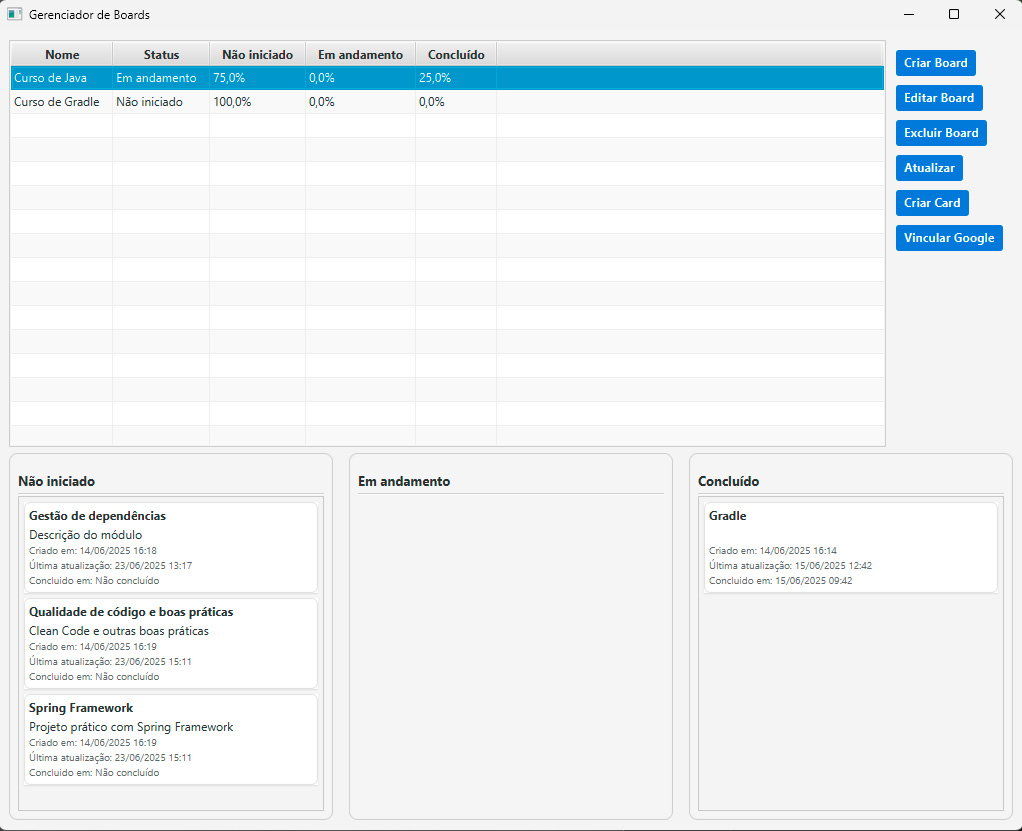
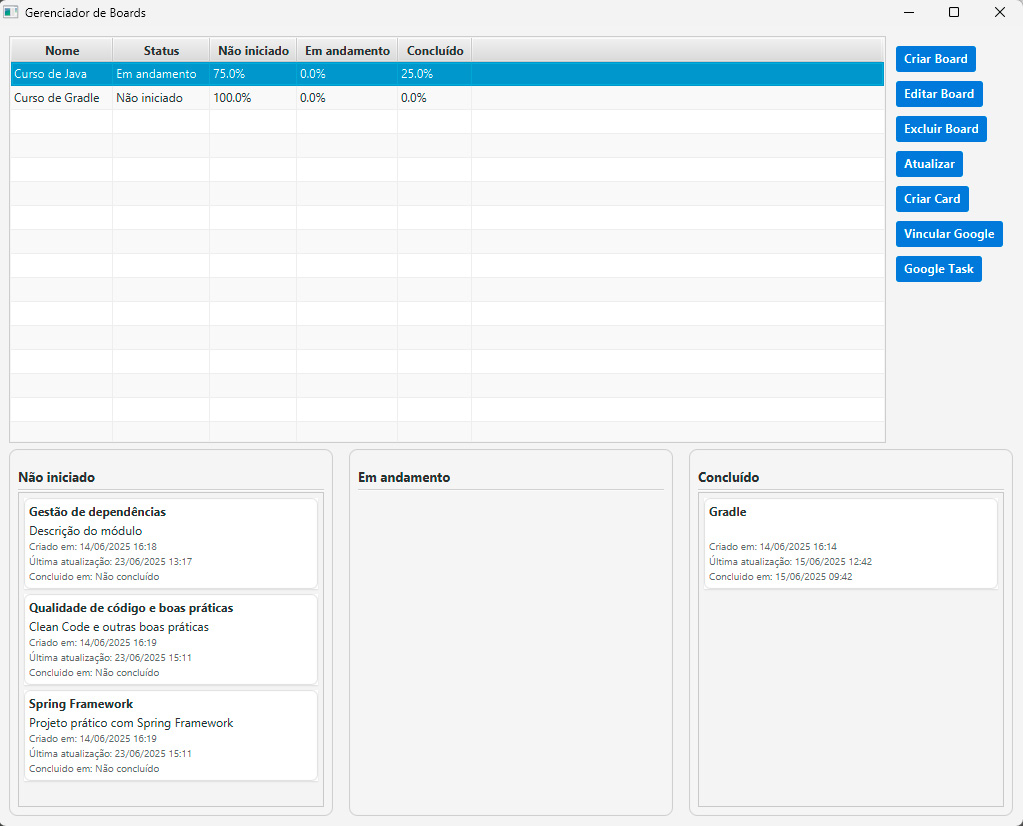
fixed modules-info, added google task link

diff --git a/src/main/java/org/desviante/integration/google/GoogleTasksLinkApp.java b/src/main/java/org/desviante/integration/google/GoogleTasksLinkApp.java
@@ -1,0 +1,44 @@
+package org.desviante.integration.google;
+
+import javafx.application.Application;
+import javafx.scene.Scene;
+import javafx.scene.control.Button;
+import javafx.scene.layout.StackPane;
+import javafx.stage.Stage;
+
+import java.awt.*;
+import java.net.URI;
+
+public class GoogleTasksLinkApp extends Application {
+
+    @Override
+    public void start(Stage primaryStage) {
+        Button googleTaskLink = new Button("Google Task");
+
+        googleTaskLink.setOnAction(event -> abrirGoogleTasks());
+
+        StackPane root = new StackPane(googleTaskLink);
+        Scene scene = new Scene(root, 300, 200);
+
+        primaryStage.setTitle("Abrir Google Tasks");
+        primaryStage.setScene(scene);
+        primaryStage.show();
+    }
+
+    public static void abrirGoogleTasks() {
+        String url = "https://tasks.google.com/tasks/";
+        try {
+            if (Desktop.isDesktopSupported()) {
+                Desktop.getDesktop().browse(new URI(url));
+            } else {
+                System.err.println("Abertura de link não suportada no sistema.");
+            }
+        } catch (Exception e) {
+            e.printStackTrace();
+        }
+    }
+
+    public static void main(String[] args) {
+        launch(args);
+    }
+}

diff --git a/src/main/java/org/desviante/ui/BoardUIController.java b/src/main/java/org/desviante/ui/BoardUIController.java
@@ -19,6 +19,7 @@ import org.desviante.ui.components.BoardTableComponent;
 import org.desviante.ui.components.BoardEditDialog;
 import org.desviante.ui.components.BoardDoubleClickListener;
 import org.desviante.util.AlertUtils;
+import org.desviante.integration.google.GoogleTasksLinkApp;
 
 import java.sql.Connection;
 import java.sql.SQLException;
@@ -57,13 +58,17 @@ public class BoardUIController {
         Button refreshButton = new Button("Atualizar");
         refreshButton.setOnAction(e -> BoardTableComponent.loadBoards(tableView, boardList, columnDisplay));
 
-        // Botão para autenticar com o Google Calendar
+        // Botão para autenticar com o Google Task
         Button googleAuthButton = new Button("Vincular Google");
         GoogleAuthController.setupGoogleAuthButton(googleAuthButton);
 
+        // Botão para acessar o Google Task
+        Button googleTaskLink = new Button("Google Task");
+        googleTaskLink.setOnAction(event -> GoogleTasksLinkApp.abrirGoogleTasks());
+
         Button createCardButton = getCreateCardButton(tableView);
 
-        VBox actionButtons = new VBox(10, createBoardButton, editBoardButton, deleteBoardButton, refreshButton, createCardButton, googleAuthButton);
+        VBox actionButtons = new VBox(10, createBoardButton, editBoardButton, deleteBoardButton, refreshButton, createCardButton, googleAuthButton, googleTaskLink);
         actionButtons.setPadding(new Insets(10));
 
         return actionButtons;

diff --git a/src/main/java/module-info.java b/src/main/java/module-info.java
@@ -5,6 +5,8 @@ module org.desviante.board {
     requires org.slf4j;
     requires org.xerial.sqlitejdbc;
     requires java.smartcardio;
+    requires java.sql;
+    requires java.desktop;
 
     // google
     requires com.google.api.services.tasks;

diff --git a/src/main/java/org/desviante/integration/google/GoogleTaskIntegration.java b/src/main/java/org/desviante/integration/google/GoogleTaskIntegration.java
@@ -15,7 +15,6 @@ import com.google.api.services.tasks.TasksScopes;
 import com.google.api.services.tasks.model.Task;
 import com.google.api.services.tasks.model.TaskList;
 import org.desviante.persistence.entity.TaskEntity;
-import com.google.api.client.util.DateTime;
 
 import java.io.FileNotFoundException;
 import java.io.IOException;
@@ -24,7 +23,6 @@ import java.io.InputStreamReader;
 import java.time.OffsetDateTime;
 import java.time.format.DateTimeFormatter;
 import java.util.Collections;
-import java.util.Date;
 import java.util.List;
 
 public class GoogleTaskIntegration {